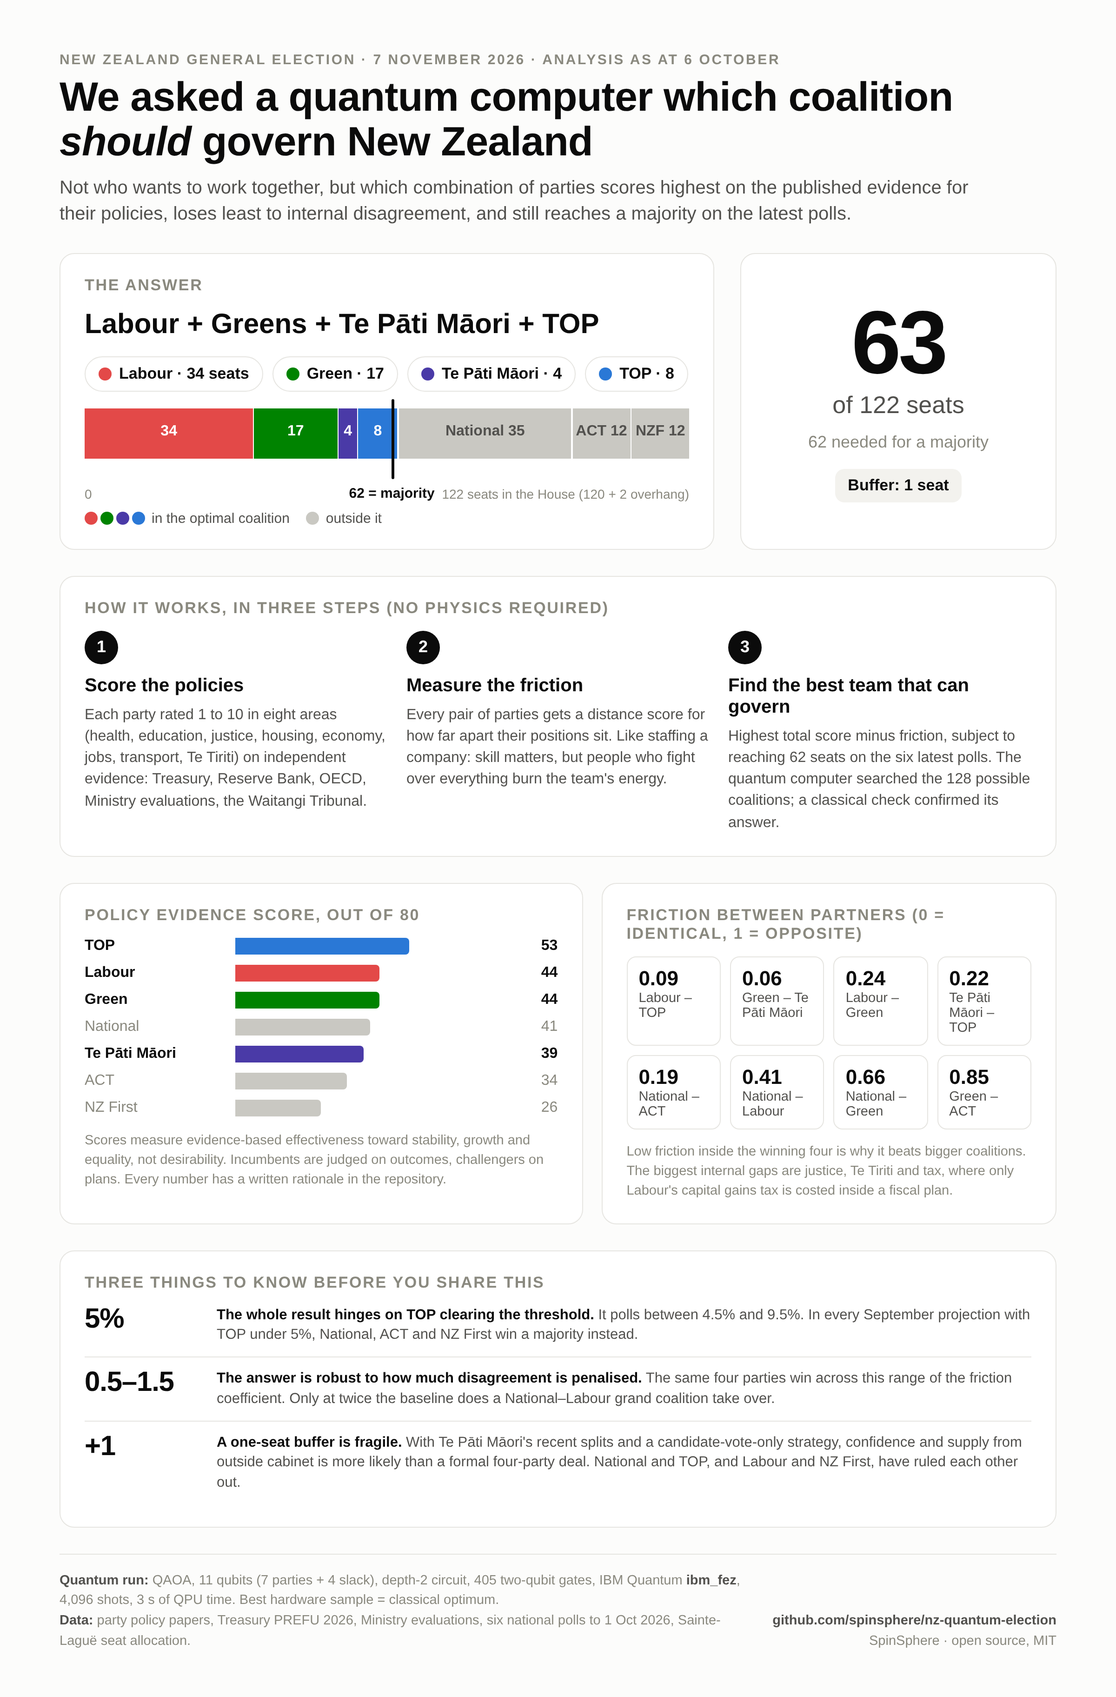
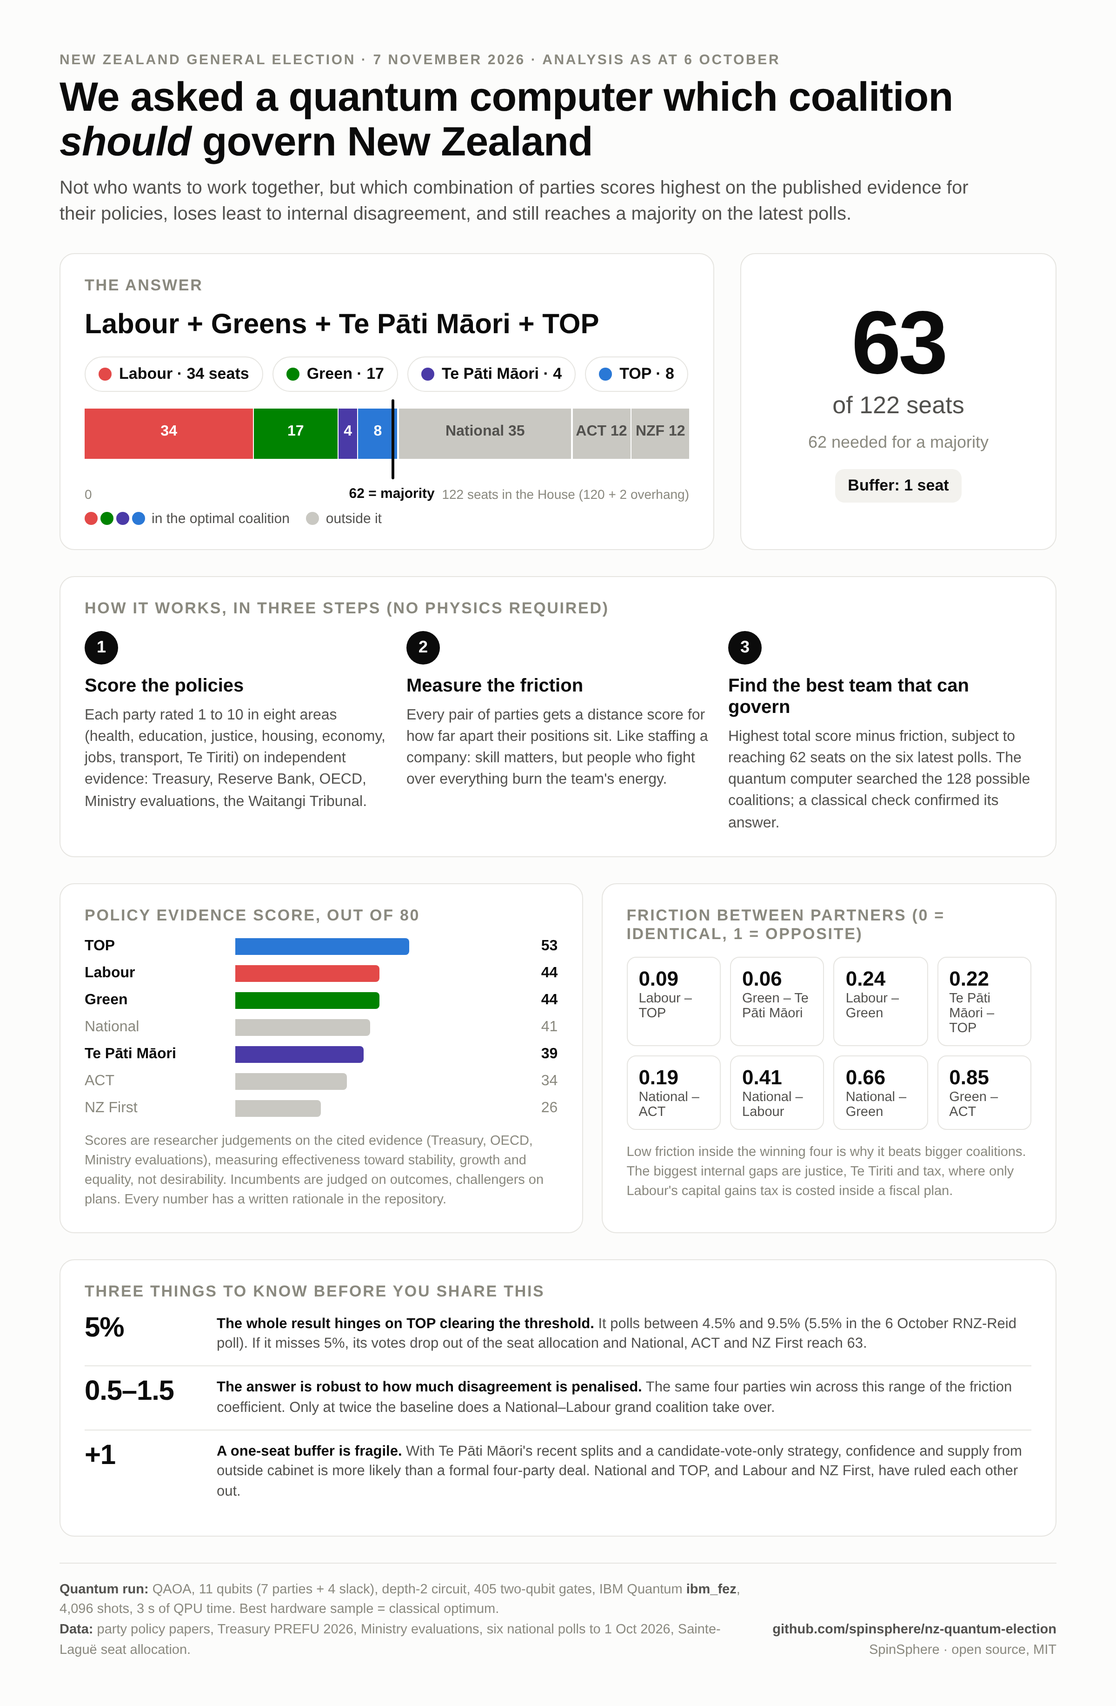
Fact-check corrections: 50% uniform baseline, threshold mechanism, ACT medicines benchmark, hardware vs ideal ratios
- Uniform random baseline for majority coalitions is 50% (64 of 128), not 60%
- Sub-threshold party votes are excluded from the Sainte-Lague allocation, not
  redistributed (article, report generator, regenerated report)
- ACT's medicines target is Australia's 12.2% share by 2033, not OECD parity
  (article and policy_data rationale/key policies; score unchanged)
- Distinguish ideal depth-4 (5.8x uniform) from depth-2 hardware (2.5x)
- Article: scores stated up front as researcher judgements; softened phonics and
  rent-control claims; overhang made explicit; 5.5% today vs 6.4% average
- Infographic note and threshold caveat reworded; PNG re-rendered

diff --git a/docs/infographic.html b/docs/infographic.html
@@ -128,7 +128,7 @@
         <div class="name muted">ACT</div><div class="track"><div class="fill" style="width:42.5%;background:var(--out)"></div></div><div class="val muted">34</div>
         <div class="name muted">NZ First</div><div class="track"><div class="fill" style="width:32.5%;background:var(--out)"></div></div><div class="val muted">26</div>
       </div>
-      <p style="margin:16px 0 0;font-size:14.5px;color:var(--ink-3);line-height:1.45">Scores measure evidence-based effectiveness toward stability, growth and equality, not desirability. Incumbents are judged on outcomes, challengers on plans. Every number has a written rationale in the repository.</p>
+      <p style="margin:16px 0 0;font-size:14.5px;color:var(--ink-3);line-height:1.45">Scores are researcher judgements on the cited evidence (Treasury, OECD, Ministry evaluations), measuring effectiveness toward stability, growth and equality, not desirability. Incumbents are judged on outcomes, challengers on plans. Every number has a written rationale in the repository.</p>
     </div>
     <div class="card">
       <h2>Friction between partners (0 = identical, 1 = opposite)</h2>
@@ -148,7 +148,7 @@
 
   <section class="card">
     <h2>Three things to know before you share this</h2>
-    <div class="caveat"><div class="k">5%</div><p><b>The whole result hinges on TOP clearing the threshold.</b> It polls between 4.5% and 9.5%. In every September projection with TOP under 5%, National, ACT and NZ First win a majority instead.</p></div>
+    <div class="caveat"><div class="k">5%</div><p><b>The whole result hinges on TOP clearing the threshold.</b> It polls between 4.5% and 9.5% (5.5% in the 6 October RNZ-Reid poll). If it misses 5%, its votes drop out of the seat allocation and National, ACT and NZ First reach 63.</p></div>
     <div class="caveat"><div class="k">0.5–1.5</div><p><b>The answer is robust to how much disagreement is penalised.</b> The same four parties win across this range of the friction coefficient. Only at twice the baseline does a National–Labour grand coalition take over.</p></div>
     <div class="caveat"><div class="k">+1</div><p><b>A one-seat buffer is fragile.</b> With Te Pāti Māori's recent splits and a candidate-vote-only strategy, confidence and supply from outside cabinet is more likely than a formal four-party deal. National and TOP, and Labour and NZ First, have ruled each other out.</p></div>
   </section>

diff --git a/generate_report.py b/generate_report.py
@@ -322,7 +322,7 @@ def build_report(results: dict, data: dict) -> str:
             blocs2.setdefault(data["parties"][q]["bloc"], 0)
             blocs2[data["parties"][q]["bloc"]] += s2[q]
         P(wrap(f"If {DISPLAY[p]}, at {votes[p]:.1f}% in the poll average, fell below the 5% threshold with no electorate seat, "
-               f"its votes would be redistributed: House of {tot2}, majority {maj2}; the optimal coalition without it would hold "
+               f"its party vote would no longer take part in the Sainte-Lague allocation: House of {tot2}, majority {maj2}; the optimal coalition without it would hold "
                f"{coal2} seats ({'still a majority' if coal2 >= maj2 else 'no longer a majority'}); bloc totals "
                f"{', '.join(f'{b} {s}' for b, s in blocs2.items())}.", indent="    "))
     P(wrap("Every published September 2026 seat projection in which Opportunity falls under 5% (Taxpayers' Union-Curia, 1-3 Sep) "

diff --git a/linkedin_article.md b/linkedin_article.md
@@ -4,17 +4,19 @@
 
 *(Attach docs/infographic.png as the post image.)*
 
-Every election, pundits argue about who will go into coalition with whom. This year I tried something different. Instead of asking who *wants* to govern together, I asked which combination of parties *should*, if the only things that counted were the published evidence on their policies, how far apart they sit from one another, and the seat maths from the latest polls. Then I handed the question to a quantum computer.
+Every election, pundits argue about who will go into coalition with whom. This year I tried something different. Instead of asking who *wants* to govern together, I asked which combination of parties *should*, if the only things that counted were the published evidence on their policies, how far apart they sit from one another, and the seat maths from the latest polls. Then I turned that question into a numerical optimisation problem and handed the optimisation problem to a quantum computer.
 
 ## The answer
 
-**Labour, the Greens, Te Pāti Māori and TOP (the Opportunity Party), with 63 of 122 seats.** One seat more than the 62 needed.
+**Labour, the Greens, Te Pāti Māori and TOP (the Opportunity Party), with 63 of a projected 122 seats.** One seat more than the 62-seat majority required. The 122-seat projection includes two Te Pāti Māori overhang seats.
 
-The runners-up were a long way back: National plus Labour plus TOP, then a National-Labour grand coalition. The current National, ACT and NZ First government comes out at 59 seats on the poll average and cannot get to 62 without TOP, which National has ruled out. NZ First and Labour have ruled each other out too. So the arithmetic and the evidence point the same way, with one enormous caveat I'll come back to: TOP is polling half a point above the 5% threshold, and if it slips under, the whole picture flips to a National-led majority.
+The runners-up were a long way back: National plus Labour plus TOP, then a National-Labour grand coalition. The current National, ACT and NZ First government comes out at 59 seats on the poll average and cannot get to 62 without TOP, which National has ruled out. NZ First and Labour have ruled each other out too. So the arithmetic and the evidence point the same way, with one enormous caveat I'll come back to: today's RNZ-Reid Research poll has TOP at 5.5%, half a point above the 5% threshold (the six-poll average the model uses is 6.4%), and if it slips under, the whole picture flips to a National-led majority.
 
 ## How it works, without the physics
 
 Think of the seven parties as seven people you might invite to run a company together. Each one brings a skill score, based on how well their plans would actually work. But every pair of them also has a friction cost: two people who disagree about everything will spend the company's energy fighting. You want the team with the highest total skill minus friction, and it has to be big enough to carry the vote at the board, meaning 62 seats.
+
+One thing to be clear about before the steps: the seat allocation, the friction calculation and the coalition search are mechanical, but the policy scores and ideological positions are my judgements, made on the cited evidence and written down cell by cell so anyone can challenge them. No institution produced those numbers.
 
 That is the whole model:
 
@@ -28,11 +30,11 @@ The computer's job was to try every combination of the seven parties and find th
 
 ## Why this is a different way to look at politics
 
-Most coalition commentary works backwards from personalities and deals. This works forwards from evidence. Three things fall out of that which commentary tends to miss.
+Most coalition commentary works backwards from personalities and deals. This works forwards from published evidence, interpreted through an explicit scoring framework. Three things fall out of that which commentary tends to miss.
 
 **The answer is robust to how much you penalise disagreement.** I ran the model with the friction penalty set anywhere from half to one and a half times its baseline, and the same four-party coalition won every time. Only when disagreement is penalised at twice the baseline does the model switch to a National-Labour grand coalition, because two partners generate less friction than four. That switch point is a useful number: it is the quantitative version of "if the small parties are impossible, the big two will have to talk."
 
-**Scores cut across party lines.** National's structured-literacy programme scores well because the phonics data is real. Its sentencing laws score poorly because the Ministry of Justice projects a 35% rise in the prison population with weak deterrence evidence. The Greens' 2% rent cap scores poorly because the economics of rent control are close to settled. Te Pāti Māori's health chapter scores better than its justice chapter. ACT's plan to lift medicines funding to OECD parity is one of the more evidence-anchored health policies on offer. Nobody gets a free pass and nobody gets written off.
+**Scores cut across party lines.** National's structured-literacy programme scores well because ERO has reported encouraging early results from the phonics and structured-literacy changes. Its sentencing laws score poorly because the Ministry of Justice projects a 35% rise in the prison population with weak deterrence evidence. The Greens' 2% rent cap scores poorly because a substantial body of economic evidence finds strict rent controls reduce rental supply, maintenance and efficient allocation. Te Pāti Māori's health chapter scores better than its justice chapter. ACT's plan to lift medicines spending one point a year to Australia's level by 2033 is one of the more explicitly quantified health policies on offer. Nobody gets a free pass and nobody gets written off.
 
 **The friction map tells you where a government would crack.** Inside the winning four, the biggest gaps are on justice (Te Pāti Māori's prison-abolition goal against Labour's near silence), Te Tiriti (binding Tribunal recommendations against Treaty impact analysis) and tax, where four different philosophies exist and only Labour's narrow capital gains tax is costed inside a fiscal plan. Labour has ruled out any other new tax. The concessions each party would need to make are listed in the report, domain by domain.
 
@@ -54,12 +56,12 @@ It does not say who will win. Polls move, and the model is a snapshot of six of 
 
 **The circuit.** Qiskit's `QAOAAnsatz` with the standard X mixer, depths 1 to 4. Angles were optimised with COBYLA against the exact expectation value from an Aer statevector simulation, with linear-ramp starting points and warm starts from the previous depth. The depth-4 circuit was sampled 8,192 times on Aer. The depth-2 circuit, with its optimised angles, was transpiled to 405 two-qubit gates and run on IBM's `ibm_fez` processor (156 qubits) with 4,096 shots, dynamical decoupling and gate twirling. Zero queue, 12 seconds wall time, 3 seconds of QPU time on IBM's free Open plan. Two earlier runs, on `ibm_marrakesh` and `ibm_fez`, gave the same answer; a fourth attempt hit an IBM internal error and fell back to the simulator as designed.
 
-**What the quantum machine did and did not do.** It learned the majority constraint well: 88% of ideal samples and 66% of hardware samples were majority coalitions, against 60% for random guessing. It only weakly resolved the policy objective at these depths: the exact optimum bitstring carried about six times the probability of a random guess, enough to find it reliably with thousands of shots, but the most frequently sampled coalitions were large, low-scoring ones. The penalty term still dominates the energy landscape even after rescaling, a known limitation of penalty-based QAOA. The optimum was recovered by post-selecting the best feasible sample, which is how QAOA is used in practice, and it matched the brute-force answer on both simulator and hardware. There is no quantum speed-up on a 128-coalition problem, and I would distrust anyone who claimed one.
+**What the quantum machine did and did not do.** It learned the majority constraint well: 88% of ideal samples at the same depth as the hardware run (87% for the final depth-4 sample) and 66% of hardware samples were majority coalitions, against 50% for uniform random sampling (64 of the 128 coalitions reach a majority). It only weakly resolved the policy objective at these shallow depths. In the ideal depth-4 simulation the exact optimum bitstring carried about 5.8 times the probability of a uniform basis state; the depth-2 hardware run managed about 2.5 times uniform. The penalty term still dominates the energy landscape even after rescaling, a known limitation of penalty-based QAOA. The optimum was nevertheless recovered by post-selecting the best feasible sample, which is how QAOA is used in practice, and it matched the brute-force answer on both simulator and hardware. There is no quantum speed-up on a 128-coalition problem, and I would distrust anyone who claimed one.
 
-**Robustness.** Friction coefficient from 0.5 to 1.5: same coalition. At 2.0 and above: National-Labour. TOP under 5%: its votes redistribute, the House stays at 122, and the optimal coalition without it holds 59 seats, short of a majority, while the right bloc reaches 63. The report prints this scenario automatically.
+**Robustness.** Friction coefficient from 0.5 to 1.5: same coalition. At 2.0 and above: National-Labour. If TOP falls below 5% without winning an electorate, its party vote no longer takes part in the Sainte-Laguë allocation. On the same underlying vote shares the projected House stays at 122, the optimal coalition without TOP holds 59 seats, short of a majority, and National, ACT and NZ First rise to 63. The report prints this scenario automatically.
 
 **Reproduce it.** `pip install -r requirements.txt`, then `python quantum_nz_election.py` and `python generate_report.py`. Edit the scores, positions or poll numbers in `policy_data.json` to test your own view. The IBM token is optional; without it the script falls back to the local simulator.
 
-*This is a mathematical exercise using publicly available policy information. It is not an endorsement of any party. The scoring is an expert judgement, documented cell by cell so it can be challenged.*
+*This is a mathematical exercise using publicly available policy information. It is not an endorsement of any party. The policy scores are not measurements produced by Treasury or any other institution; they are documented researcher judgements based on the cited evidence. The seat allocation, friction calculation and coalition optimisation are mechanical once those inputs are supplied.*
 
 #QuantumComputing #Qiskit #IBMQuantum #QAOA #NewZealand #NZElection2026 #MMP #PublicPolicy #OpenSource

diff --git a/README.md b/README.md
@@ -16,7 +16,7 @@ This repository answers that question with a Quantum Approximate Optimization Al
 
 **Labour + Green + Te Pāti Māori + TOP: 63 of 122 seats (majority 62), objective 1.2125.**
 
-Sampled from the QAOA circuit on `ibm_fez` (job `db21nrs7f06c73ap7g1g`, 3 seconds of QPU time; earlier runs on `ibm_fez` (`db20ak47f06c73ap5s10`) and `ibm_marrakesh` (`db1u21hmmimc73fnvhk0`) gave the same answer) and identical to the classical optimum. The classical ranking of the next best feasible coalitions is National + Labour + TOP (0.76), National + Labour (0.65) and National + Labour + NZ First (0.49). The incumbent National + ACT + NZ First bloc polls at 59 seats and cannot reach 62 without TOP, which National has ruled out; NZ First has in turn ruled out Labour. The answer hinges on TOP staying above the 5% threshold: it polls between 4.5% and 9.5%, and every September projection with TOP under 5% produces a National-led majority instead.
+Sampled from the QAOA circuit on `ibm_fez` (job `db21nrs7f06c73ap7g1g`, 3 seconds of QPU time; earlier runs on `ibm_fez` (`db20ak47f06c73ap5s10`) and `ibm_marrakesh` (`db1u21hmmimc73fnvhk0`) gave the same answer) and identical to the classical optimum. The classical ranking of the next best feasible coalitions is National + Labour + TOP (0.76), National + Labour (0.65) and National + Labour + NZ First (0.49). The incumbent National + ACT + NZ First bloc polls at 59 seats and cannot reach 62 without TOP, which National has ruled out; NZ First has in turn ruled out Labour. The answer hinges on TOP staying above the 5% threshold: it polls between 4.5% and 9.5% (5.5% in the 6 October RNZ-Reid Research poll, 6.4% in the six-poll average), and every September projection with TOP under 5% produces a National-led majority instead.
 
 The answer holds for every friction coefficient between 0.5 and 1.5. At 2.0 and above the optimiser prefers the National + Labour grand coalition because it has the fewest partners. See the full executive report in [`docs/REPORT.md`](docs/REPORT.md).
 
@@ -58,7 +58,7 @@ Full details, including every modelling choice and its limitations, are in [`MET
 
 ## What the quantum part does and does not show
 
-QAOA learns the majority constraint well: 88% of ideal samples and 66% of hardware samples are majority coalitions, against 60% for uniform random sampling. At depths 1 to 4 it only weakly resolves the policy objective (the optimum bitstring carries about six times the uniform probability), because the penalty term dominates the energy spectrum even after rescaling. The optimum is recovered by post-selecting the best feasible sample, which is how QAOA is used in practice. With 128 coalitions the problem is classically trivial and is brute-forced in the same script as a check. The point of the exercise is an auditable, end-to-end pipeline from policy evidence to a quantum circuit on real hardware, not a speed-up.
+QAOA learns the majority constraint well: 88% of ideal samples (at the depth used on hardware; 87% for the final depth-4 sample) and 66% of hardware samples are majority coalitions, against 50% for uniform random sampling, since 64 of the 128 coalitions reach a majority. At depths 1 to 4 it only weakly resolves the policy objective (the optimum bitstring carries about 5.8 times the uniform probability in the ideal depth-4 simulation and about 2.5 times on the depth-2 hardware run), because the penalty term dominates the energy spectrum even after rescaling. The optimum is recovered by post-selecting the best feasible sample, which is how QAOA is used in practice. With 128 coalitions the problem is classically trivial and is brute-forced in the same script as a check. The point of the exercise is an auditable, end-to-end pipeline from policy evidence to a quantum circuit on real hardware, not a speed-up.
 
 Hardware run summary (depth 2, 11 qubits, `ibm_fez`; the `ibm_marrakesh` run is in the git history):
 

diff --git a/docs/REPORT.md b/docs/REPORT.md
@@ -6,7 +6,7 @@ Generated by `python generate_report.py` from `quantum_results.json`.
 ══════════════════════════════════════════════════════════════════════════════
   NZ QUANTUM ELECTION — EXECUTIVE REPORT
   2026 New Zealand General Election (2026-11-07), data as of 2026-10-06
-  Report generated 2026-10-06 10:52 from quantum_results.json
+  Report generated 2026-10-06 12:20 from quantum_results.json
 ══════════════════════════════════════════════════════════════════════════════
 
 ══════════════════════════════════════════════════════════════════════════════
@@ -390,9 +390,10 @@ TOTAL (/80)                          41    44*   44*   34    26    39*   53*
 
   3.5 Threshold scenario
     If TOP (Opportunity), at 6.4% in the poll average, fell below the 5%
-    threshold with no electorate seat, its votes would be redistributed: House
-    of 122, majority 62; the optimal coalition without it would hold 59 seats
-    (no longer a majority); bloc totals right 63, left 59, centre 0.
+    threshold with no electorate seat, its party vote would no longer take
+    part in the Sainte-Lague allocation: House of 122, majority 62; the
+    optimal coalition without it would hold 59 seats (no longer a majority);
+    bloc totals right 63, left 59, centre 0.
     Every published September 2026 seat projection in which Opportunity falls
     under 5% (Taxpayers' Union-Curia, 1-3 Sep) produces a National-ACT-NZ
     First majority; every projection with Opportunity above 5% leaves it

diff --git a/METHODOLOGY.md b/METHODOLOGY.md
@@ -90,7 +90,7 @@ The brief asked for `maximise sum_i w_i x_i` subject to the seat constraint. On 
 
 ## 8. What the quantum part does and does not show
 
-QAOA learns the majority constraint well: at `p = 2` more than 85% of the probability sits on majority coalitions, against 60% for uniform sampling. It resolves the policy objective only weakly at these depths: the exact optimum bitstring carries a few tenths of a percent of the probability, a few times the uniform baseline. The optimum is recovered by post-selecting the best feasible sample, which is how QAOA is used in practice. With 128 coalitions the problem is classically trivial and is solved by brute force in the same script as a check. The value of the exercise is an auditable, end-to-end pipeline from policy evidence to a quantum circuit on real hardware, not a speed-up.
+QAOA learns the majority constraint well: at `p = 2` more than 85% of the probability sits on majority coalitions, against 50% for uniform sampling (64 of the 128 coalitions reach a majority). It resolves the policy objective only weakly at these depths: the exact optimum bitstring carries a few tenths of a percent of the probability, 5.8 times the uniform baseline in the ideal depth-4 simulation and 2.5 times on the depth-2 hardware run. The optimum is recovered by post-selecting the best feasible sample, which is how QAOA is used in practice. With 128 coalitions the problem is classically trivial and is solved by brute force in the same script as a check. The value of the exercise is an auditable, end-to-end pipeline from policy evidence to a quantum circuit on real hardware, not a speed-up.
 
 ## 9. Limitations
 
